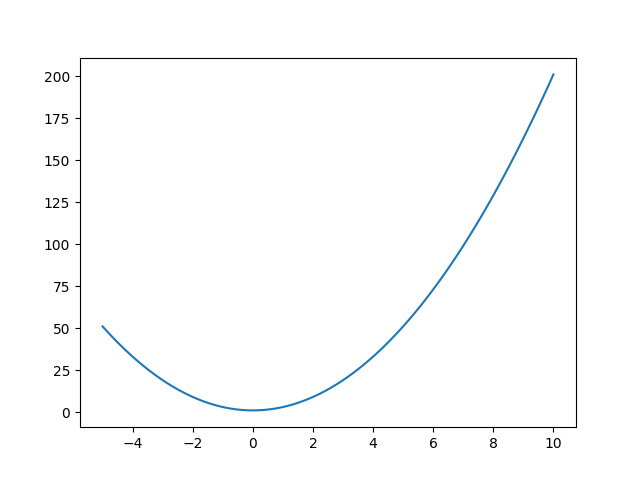
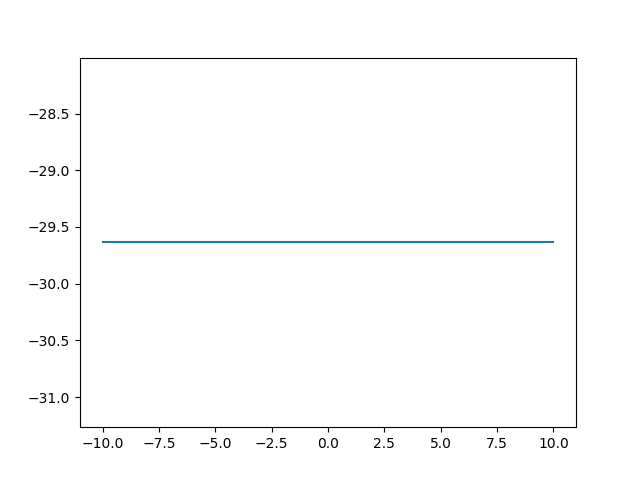
bug in the calculator

diff --git a/src/tools/tools.py b/src/tools/tools.py
@@ -18,8 +18,8 @@ from src.tools.manage_tools import tool
 @tool
 def calculator(expr: str): # arguments should have a defined type
     if verbose>0 : print(">> using the calculator")
-    # replace '−' (U+2212) with '-' (U+002d), they look similar but the first one causes an error
-    expr.decode("utf-8").replace(u"\u2212", "-").encode("utf-8") 
+    # replace '−' (U+2212) with '-' (U+002d), they look similar with this font, but the first one causes an error
+    expr.replace(u"\u2212", "-")
 
     # remove everything that isn't a math symbol (to avoid evaluating malicious code)
     safe_expr = re.sub(r'[^0-9+\-*/().[] ]', '', expr)